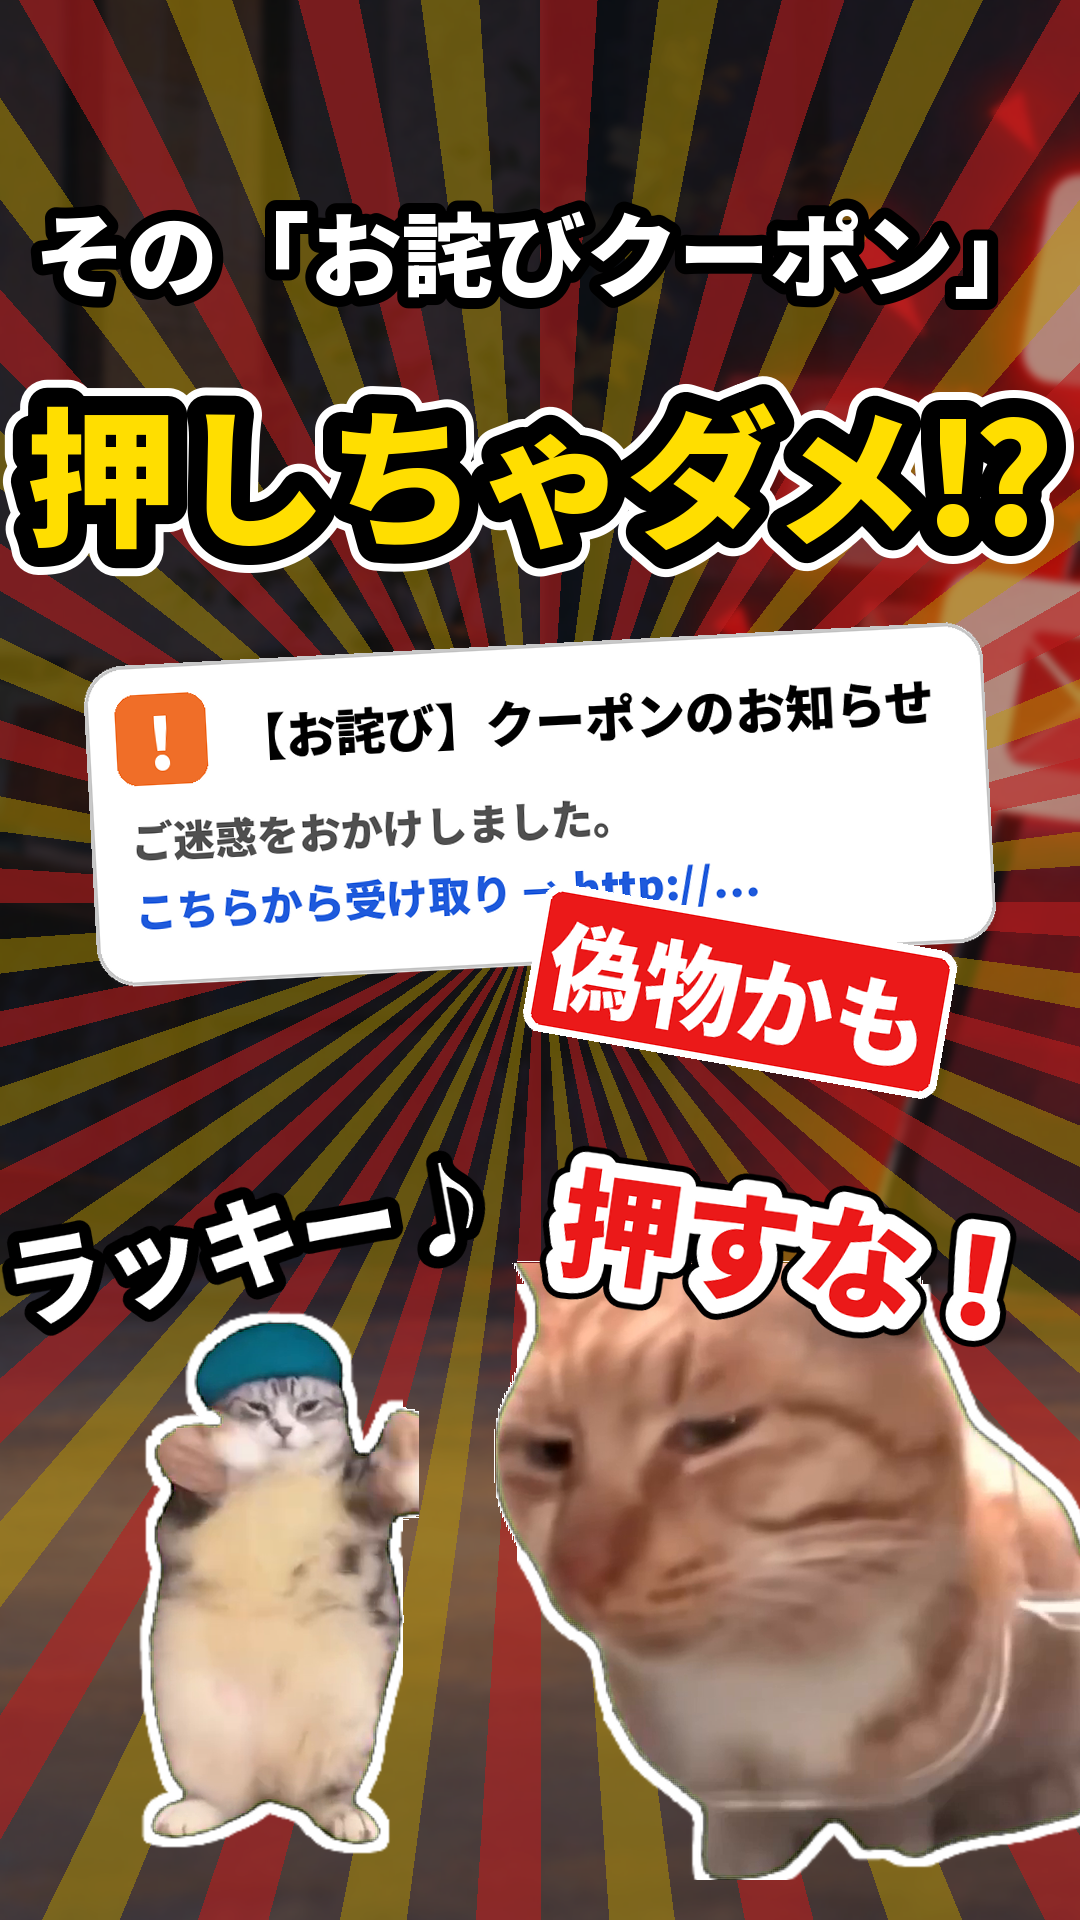
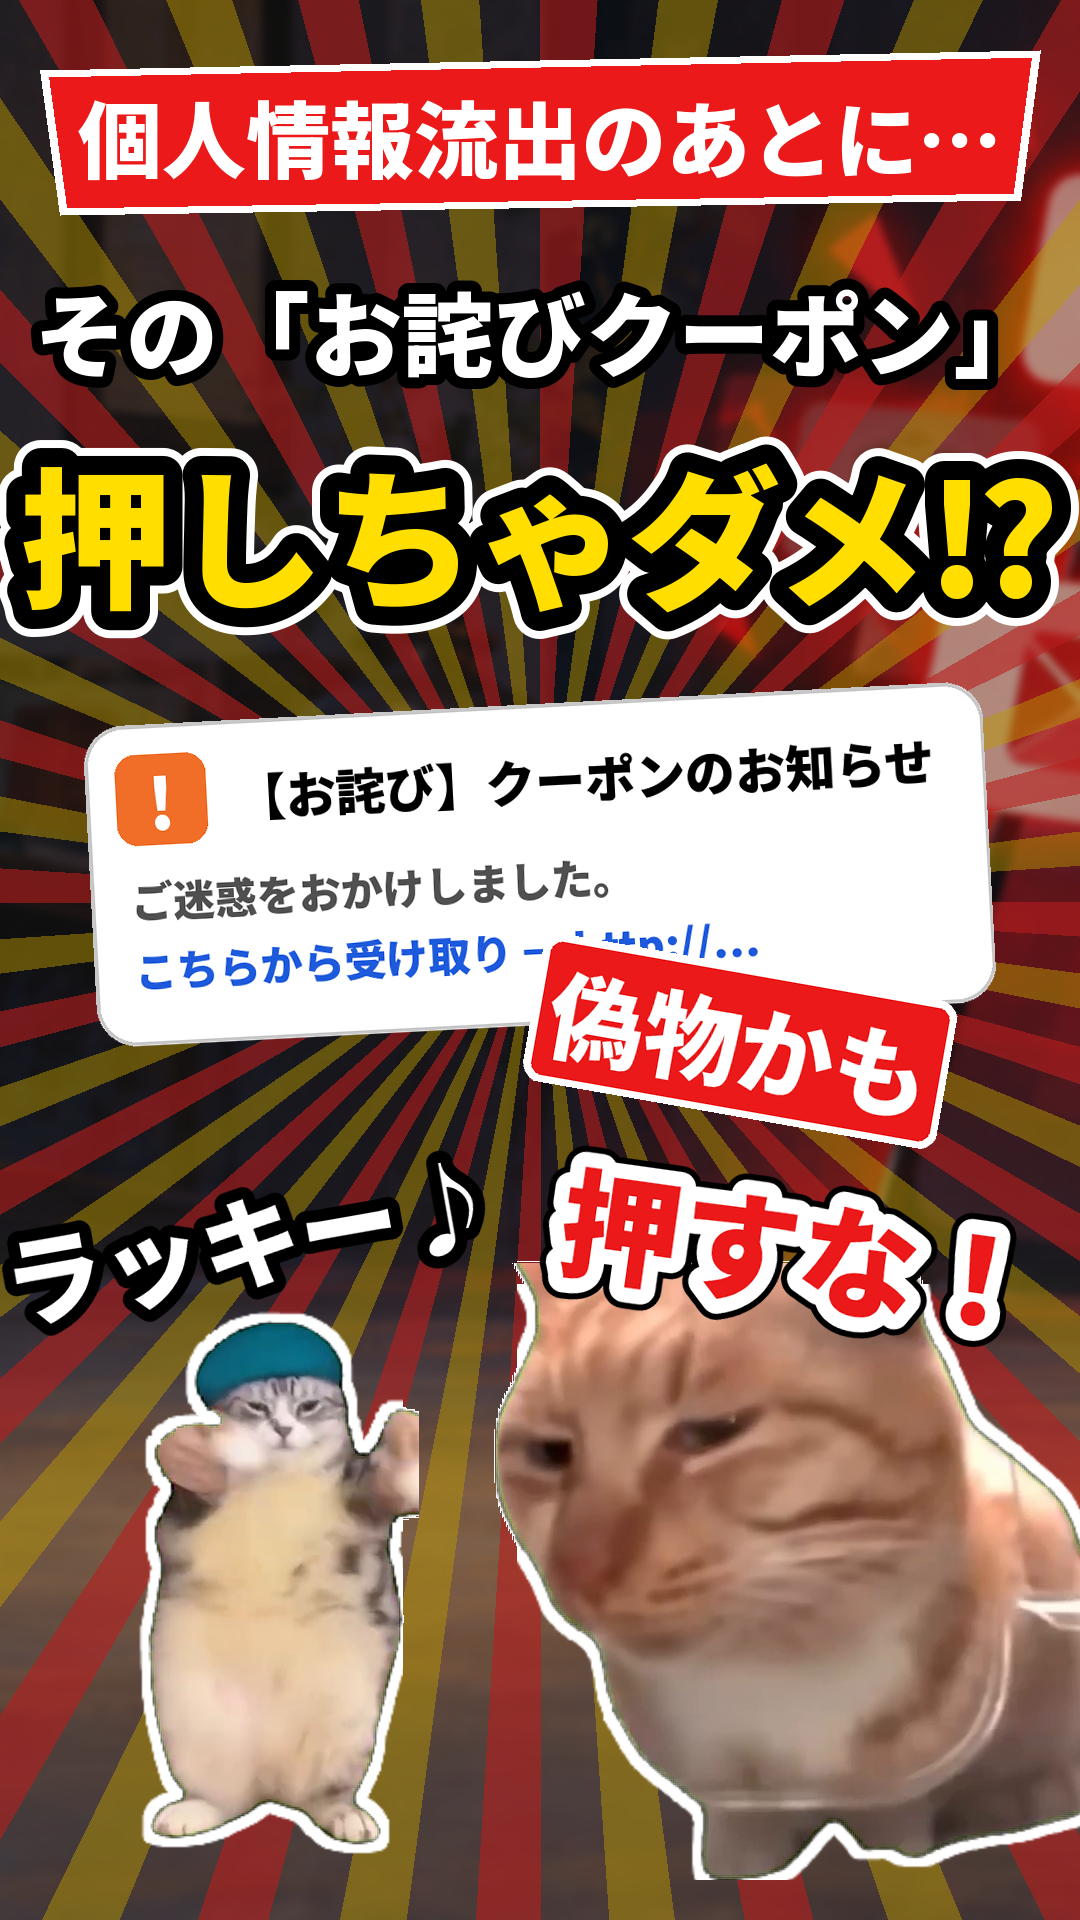
4本目：長尺のサムネ・タイトル・説明文、ショートを45〜58秒に、サムネに話題の帯
Claude-Session: https://claude.ai/code/session_011g9CsrfFD5YswfNSvNDW39

diff --git a/catmeme/short_04_leak.py b/catmeme/short_04_leak.py
@@ -96,6 +96,8 @@ def cuts_a():
               "免許証の情報まで", cap_col=RED, dur=3.2, se="doon_heavy"),
         two("bg20_counter", "glare_disgusted_cat", "eat_pop_cat", "免許証って\n名前・住所・生年月日\n顔写真まで載ってるからな",
             who="R", dur=3.2, se="hyoshigi_02"),
+        one("bg20_counter", "peek_what_happen_cat", "ニュース猫", NEWS, "それ悪用されたら\nどうなるの？", dur=2.4,
+            se="question_hatena_maou"),
         panel(flow("悪用されると…（最悪のケース）", [
             ("なりすまし", "名前を使って\nクレカを作られる", False),
             ("勝手に借金", "知らぬ間に\nキャッシング", False),
@@ -106,6 +108,7 @@ def cuts_a():
             cap_col=RED, dur=2.6, fx=["lines", "shake"], se="game_mgs_alert"),
         one("bg23_hacker_room", "cocky_dj_cat", "ハッカー猫", HACK, "ローンの審査？\nお気の毒さま〜", dur=2.4,
             se="anime_shinchan_taraan"),
+        one("bg20_counter", "confused_i_dont_know_cat", "ニュース猫", NEWS, "じゃあ\nどうすればいいの？", dur=2.2, se="boing_fail"),
         two("bg20_counter", "huh_huh_cat", "think_bike_front_seat_cat", "実際は審査で\n電話や口座の確認もある\n必ず通るわけじゃない",
             who="R", dur=3.2, se="pinpon_notice"),
         panel(items("免許証が漏れたかも…と思ったら", [
@@ -113,6 +116,8 @@ def cuts_a():
             "開示して　身に覚えのない契約をチェック"]),
             "今すぐできる対策", cap_col=YELLOW, dur=4.0, se="pinpoon_correct"),
         two("bg20_counter", "spin_spinning_cat", "eat_pop_cat", "信用情報って\n自分で見られるのか", who="L", dur=2.4, se="pikon"),
+        two("bg20_counter", "spin_spinning_cat", "eat_pop_cat", "開示を申し込めば\n見られるぞ\n身に覚えのない契約がないかチェックな",
+            who="R", dur=3.0, se="idea_newtype_01"),
         one("bg03_blackboard", "wave_waving_cat", "ニュース猫", NEWS, "なぜ漏えいが連発？\n本編で解説！", cap_col=YELLOW,
             h=760, dur=3.0, se="chirin", bgm={"file": COCOA, "gain": -6, "fade": 0.8}),
     ]
@@ -125,12 +130,16 @@ def cuts_b():
             "焼肉きんぐ　約1,078万件", "Gyazo　約2,362万件", "タイムズカー　約660万件", "デジタル庁　約24.6万件"],
             note="件数は各社の発表（漏えいのおそれを含む）"), "漏えいが\n止まらない", dur=3.4, se=["jan", "doon_heavy"],
             bgm={"file": PURPLE, "gain": -4}),
+        one("bg22_yakiniku", "dance_koto_nai_cat", "ニュース猫", NEWS, "多すぎて\nもう何がなんだか", dur=2.4,
+            se="spring_byoin"),
         one("bg26_phone_alert", "taunt_cat_and_scared_dog", "ハッカー猫", HACK, "お詫びの\nクーポンです〜（偽）", dur=2.6,
             se="shine_kira_01"),
         two("bg26_phone_alert", "joy_happy_happy_happy_cat", "glare_disgusted_cat", "え、クーポン？\nラッキー♪", who="L", dur=2.4, until=2.8,
             se="game_mario_1up"),
         two("bg26_phone_alert", "joy_happy_happy_happy_cat", "glare_disgusted_cat", "待て\nそれが一番あやしい", who="R", dur=2.4, until=2.8,
             se="tsukkomi_bishi"),
+        one("bg23_hacker_room", "angry_aiming_cat", "ハッカー猫", HACK, "ポチッと押してくれれば\nこっちのもん", dur=2.6,
+            se="game_zelda_item_get"),
         panel(flow("お詫びクーポンのワナ", [
             ("偽のお詫びが届く", "漏えいの\nニュースに便乗", False),
             ("リンクを押す", "本物そっくりの\n偽サイトへ", False),
@@ -139,12 +148,16 @@ def cuts_b():
             "押すと…", cap_col=RED, dur=4.2, se="buzzer_wrong", bgm={"file": NORA, "gain": -4}),
         one("bg26_phone_alert", "surprise_big_pupils_cat", "ニュース猫", NEWS, "カード番号まで！？", cap_col=RED, dur=2.2,
             fx=["lines", "shake"], se="explosion_chudoon"),
+        two("bg26_phone_alert", "surprise_big_pupils_cat", "eat_pop_cat", "本物のお詫びでも\nメールのリンクじゃなく\n公式アプリで確かめる",
+            who="R", dur=3.2, se="pinpon_notice"),
         two("bg02_room", "peek_what_happen_cat", "eat_pop_cat", "パスワードを使い回してると\nほかのサービスにも\n次々ログインされる",
             who="R", dur=3.4, se="pc_warning"),
         two("bg02_room", "sad_banana_cat_cry", "eat_pop_cat", "……全部\n同じパスワードだわ", who="L", dur=2.6, se="tear_drop"),
         panel(items("今日からできる対策", [
             "「お詫び」のリンクは押さない", "公式アプリ・公式サイトから確認", "パスワードを使い回さない", "二段階認証を入れる"]),
             "これだけは\nやっておこう", cap_col=YELLOW, dur=4.0, se="pinpoon_correct"),
+        two("bg02_room", "sleepy_sleepy_cat", "drive_driving_cat", "持ってるだけで漏れるから\n使ってないアカウントは\n退会しとこう",
+            who="R", dur=3.2, se="page_turn_01"),
         one("bg23_hacker_room", "blank_black_cat_zoning_out", "ハッカー猫", HACK, "二段階認証……\nだと……", dur=2.4,
             se="deflate_hyororo"),
         one("bg03_blackboard", "wave_waving_cat", "ニュース猫", NEWS, "なぜ漏えいが連発？\n本編で解説！", cap_col=YELLOW,

diff --git a/catmeme/make_thumb_short_04.py b/catmeme/make_thumb_short_04.py
@@ -60,6 +60,14 @@ def cats(img, left, right):
     img.alpha_composite(b, (int(810 - b.width / 2), H - b.height - 40))
 
 
+def topic_band(img, text="個人情報流出"):
+    """いちばん上の帯（何の話か一目でわかるように）。"""
+    d = ImageDraw.Draw(img)
+    d.polygon([(40, 70), (W - 40, 50), (W - 60, 200), (60, 215)], fill=RED)
+    d.polygon([(40, 70), (W - 40, 50), (W - 60, 200), (60, 215)], outline=WHITE, width=8)
+    fit_text(d, (W / 2, 135), text, 940, 120, WHITE, RED, sw_ratio=0.0)
+
+
 def save(img, name):
     out = os.path.join(HERE, "thumbs", name + ".png")
     os.makedirs(os.path.dirname(out), exist_ok=True)
@@ -70,8 +78,9 @@ def save(img, name):
 def license_thumb():
     img = base("bg23_hacker_room", ((255, 40, 40, 150), (255, 210, 0, 120)))
     d = ImageDraw.Draw(img)
-    fit_text(d, (W / 2, 250), "レンタカー予約で", 1030, 150, WHITE, BLACK, double=None)
-    fit_text(d, (W / 2, 470), "免許証まで⁉", 1040, 210, YELLOW, BLACK, double=WHITE)
+    topic_band(img, "個人情報流出")
+    fit_text(d, (W / 2, 330), "レンタカー予約で", 1030, 140, WHITE, BLACK, double=None)
+    fit_text(d, (W / 2, 530), "免許証まで⁉", 1040, 190, YELLOW, BLACK, double=WHITE)
     # 真ん中：免許証ふうのカード（中身は伏せ字）
     pw = Image.new("RGBA", (900, 360), (0, 0, 0, 0))
     pd = ImageDraw.Draw(pw)
@@ -85,13 +94,13 @@ def license_thumb():
         pd.text((290, y), lab, font=P.font("black", 44), fill=BLACK, anchor="lm")
         pd.rectangle((500, y - 20, 850, y + 20), fill=BLACK)
     pw = pw.rotate(4, expand=True, resample=Image.BICUBIC)
-    img.alpha_composite(pw, (int(W / 2 - pw.width / 2), 610))
+    img.alpha_composite(pw, (int(W / 2 - pw.width / 2), 670))
     stamp = Image.new("RGBA", (560, 150), (0, 0, 0, 0))
     sd = ImageDraw.Draw(stamp)
     sd.rounded_rectangle((0, 0, 560, 150), 20, fill=RED, outline=WHITE, width=8)
     sd.text((280, 75), "約160万件", font=P.font("black", 100), fill=WHITE, anchor="mm")
     stamp = stamp.rotate(-8, expand=True, resample=Image.BICUBIC)
-    img.alpha_composite(stamp, (int(W / 2 - stamp.width / 2 - 120), 950))
+    img.alpha_composite(stamp, (int(W / 2 - stamp.width / 2 + 190), 850))
     cats(img, ("huh_huh_cat", 1.0, False), ("surprise_big_pupils_cat", 0.6, True))
     words(img, [("は？", 230, 1240, 130, WHITE, 10), ("ブラックリスト\n入り！？", 790, 1250, 78, RED, -8)])
     save(img, "short_04a_license")
@@ -100,8 +109,9 @@ def license_thumb():
 def coupon_thumb():
     img = base("bg26_phone_alert", ((255, 40, 40, 150), (255, 210, 0, 120)))
     d = ImageDraw.Draw(img)
-    fit_text(d, (W / 2, 250), "その「お詫びクーポン」", 1030, 120, WHITE, BLACK, double=None)
-    fit_text(d, (W / 2, 470), "押しちゃダメ⁉", 1040, 190, YELLOW, BLACK, double=WHITE)
+    topic_band(img, "個人情報流出のあとに…")
+    fit_text(d, (W / 2, 330), "その「お詫びクーポン」", 1030, 120, WHITE, BLACK, double=None)
+    fit_text(d, (W / 2, 530), "押しちゃダメ⁉", 1040, 180, YELLOW, BLACK, double=WHITE)
     # 真ん中：スマホの通知ふう（実在の会社名は出さない）
     pw = Image.new("RGBA", (900, 330), (0, 0, 0, 0))
     pd = ImageDraw.Draw(pw)
@@ -112,13 +122,13 @@ def coupon_thumb():
     pd.text((40, 175), "ご迷惑をおかけしました。", font=P.font("black", 42), fill=(80, 80, 80), anchor="lm")
     pd.text((40, 245), "こちらから受け取り → http://…", font=P.font("black", 42), fill=(30, 90, 220), anchor="lm")
     pw = pw.rotate(3, expand=True, resample=Image.BICUBIC)
-    img.alpha_composite(pw, (int(W / 2 - pw.width / 2), 620))
+    img.alpha_composite(pw, (int(W / 2 - pw.width / 2), 680))
     stamp = Image.new("RGBA", (420, 150), (0, 0, 0, 0))
     sd = ImageDraw.Draw(stamp)
     sd.rounded_rectangle((0, 0, 420, 150), 20, fill=RED, outline=WHITE, width=8)
     sd.text((210, 75), "偽物かも", font=P.font("black", 96), fill=WHITE, anchor="mm")
     stamp = stamp.rotate(-10, expand=True, resample=Image.BICUBIC)
-    img.alpha_composite(stamp, (int(W / 2 - stamp.width / 2 + 200), 880))
+    img.alpha_composite(stamp, (int(W / 2 - stamp.width / 2 + 200), 930))
     cats(img, ("happy_girlfriend_dance_cat", 0.5, False), ("glare_disgusted_cat", 1.0, True))
     words(img, [("ラッキー♪", 250, 1240, 100, WHITE, 10), ("押すな！", 800, 1250, 120, RED, -8)])
     save(img, "short_04b_coupon")

diff --git a/catmeme/make_thumb_04.py b/catmeme/make_thumb_04.py
@@ -1,0 +1,29 @@
+"""04 個人情報流出のサムネ（横 1280x720）。python3 catmeme/make_thumb_04.py → thumbs/04_leak.png ほか
+
+作りは make_thumb_03.py と同じ（上の赤帯／大きな黄色い文字／赤い副題／札／左右の猫）。
+"""
+import os
+
+from make_thumb_03 import make
+
+HERE = os.path.dirname(os.path.abspath(__file__))
+OUT = os.path.join(HERE, "thumbs", "04_leak.png")
+NEWS, SAGE, HACK = (215, 35, 35), (40, 90, 200), (30, 30, 30)
+WHITE, YELLOW = (255, 255, 255), (255, 222, 0)
+COMMON = dict(bg_dir="04_leak", bg="bg24_server_room", ray_cols=((255, 40, 40), (255, 210, 0)))
+VARIANTS = {
+    # 正式版：猫ミーム感を強めた版（脇役の猫とひとことを散らす）
+    "": dict(left=("surprise_big_pupils_cat", 0.6, False, "ニュース猫", NEWS), right=("angry_aiming_cat", 1.0, False, "ハッカー猫", HACK),
+             top="9月末から　漏えいの発表がほぼ毎日", big="個人情報", sub="盗まれすぎ問題!?", badge="", cat_h=480, tags=False,
+             extras=(("sad_banana_cat_cry", 1.0, False, 450, 270, 735), ("glare_disgusted_cat", 1.0, True, 830, 270, 735)),
+             words=(("1,000万件!?", 200, 640, 58, WHITE, 10), ("ﾌｯﾌｯﾌ…", 1130, 345, 64, (190, 190, 190), -10),
+                    ("ﾋｴｯ", 450, 480, 56, YELLOW, 8), ("お詫びクーポン?", 830, 480, 44, YELLOW, -8))),
+    # 別案：件数を札にしたシンプル版
+    "_b": dict(left=("weird_meowing_cat", 1.0, False, "ニュース猫", NEWS), right=("eat_pop_cat", 1.0, False, "博識な猫", SAGE),
+               top="焼肉きんぐ・タイムズカー・デジタル庁…", big="個人情報", sub="盗まれすぎ問題!?",
+               badge="あなたの情報も漏れてるかも？"),
+}
+
+if __name__ == "__main__":
+    for k, v in VARIANTS.items():
+        make(OUT.replace(".png", k + ".png"), **{**COMMON, **v})

diff --git a/catmeme/short_03_kodomo_nisa.py b/catmeme/short_03_kodomo_nisa.py
@@ -20,6 +20,7 @@ import render as R
 R.NYAS_STYLE = True
 R.FG_DUCK = -9
 SW, SH = 1080, 1920
+SHORT_MIN, SHORT_MAX = 45.0, 58.0   # ショートの長さ（秒）
 HERE = os.path.dirname(os.path.abspath(__file__))
 BGS = [os.path.join(HERE, "backgrounds", d) for d in ("03_kodomo_nisa", "02_october", "01_todai")]
 BGM = os.path.join(HERE, "bgm")
@@ -200,6 +201,8 @@ def run(cs, title_img, out_path, prev):
     durs = [R.cut_dur(c) for c in cs]
     starts = list(np.cumsum([0] + durs[:-1]))
     total = sum(durs)
+    if not SHORT_MIN <= total <= SHORT_MAX:   # ショートは45〜58秒（チャンネルのルール）
+        raise SystemExit(f"ショートの長さ {total:.1f}秒 が {SHORT_MIN}〜{SHORT_MAX}秒の範囲外です。カットを足すか削ってください")
     os.makedirs(os.path.dirname(OUT), exist_ok=True)
     wav = OUT + ".audio.f32"
     R.build_audio(cs, starts, durs, total).tofile(wav)

diff --git a/catmeme/make_thumb_03.py b/catmeme/make_thumb_03.py
@@ -33,8 +33,8 @@ def tag(img, text, color, cx, y, size=40):
 
 
 def make(out, left, right, top, big, sub, badge="年60万円・最大600万円", ray_cols=((255, 60, 60), (255, 220, 0)), bg="bg19_kids_room",
-         cat_h=470, extras=(), words=(), tags=True):
-    path = os.path.join(HERE, "backgrounds", "03_kodomo_nisa", bg + ".png")
+         cat_h=470, extras=(), words=(), tags=True, bg_dir="03_kodomo_nisa"):
+    path = os.path.join(HERE, "backgrounds", bg_dir, bg + ".png")
     img = Image.open(path).convert("RGB").resize((W, H)).filter(ImageFilter.GaussianBlur(3)).convert("RGBA")
     # 集中線
     rays = Image.new("RGBA", (W, H), (0, 0, 0, 0))

diff --git a/catmeme/scripts/04_leak_youtube.md b/catmeme/scripts/04_leak_youtube.md
@@ -1,0 +1,71 @@
+# 04 個人情報、盗まれすぎ問題：YouTube のタイトル・説明文・タグ
+
+## タイトル（おすすめ順）
+1. 【猫ミーム】個人情報、盗まれすぎ問題!? 焼肉きんぐ・タイムズカー・デジタル庁…なぜ漏えいが連発？ #猫ミーム
+2. 【猫ミーム】9月末から漏えい発表がほぼ毎日…原因・AI攻撃・免許証が漏れると最悪どうなる？ #猫ミーム
+3. 【猫ミーム】その「お詫びクーポン」押す前に！個人情報流出の連発と今日からできる対策 #猫ミーム
+
+## サムネ
+- 正式版: thumbs/04_leak.png（猫ミーム多め「個人情報 盗まれすぎ問題!?」）
+- 別案: thumbs/04_leak_b.png（「焼肉きんぐ・タイムズカー・デジタル庁…」＋「あなたの情報も漏れてるかも？」）
+
+## 説明文
+
+```
+2026年9月末から、焼肉きんぐ・タイムズカー・Gyazo・デジタル庁など、個人情報の「漏えいのおそれ」の発表がほぼ毎日続いています。
+なんでこんなに盗まれるの？ なんで今連発しているの？ 盗まれると何が起きる？
+ニュース猫と博識な猫（と、ハッカー猫）が、原因・AIを使った攻撃・免許証が漏れたときの最悪のケース・今日からできる対策まで、ゆるっと解説します。
+
+あなたは何個のサービスに登録してる？ コメントで教えて！
+
+▼ 目次
+0:00 何が起きている？
+0:28 9月末から　ほぼ毎日…
+1:20 なんでこんなに盗まれるの？
+2:16 なんで今　こんなに連発？
+3:13 ネットの声（根拠は未確認）
+3:29 盗まれると何が起きる？
+3:47 特にこわいのが免許証
+4:51 じゃあ、どうすればいい？
+5:14 ネットの声・まとめ
+
+▼ ご注意
+・件数は各社の発表どおりです（「漏えいのおそれ」を含みます）。同じ人が何社にも登録しているため、件数は合計していません
+・被害を受けた会社を責める動画ではありません
+・ネットの声は、よく見かける意見を要約したもので、根拠は確認されていません
+・実在の人物の言葉は、報道をもとに意味を変えずにまとめたように配慮しております
+・猫はすべて演出です。ハッカー猫は架空の悪役です
+・内容は2026年10月6日時点の報道・公式発表にもとづいています
+・背景イラストの一部はAIで生成しています
+
+▼ BGM
+Purple / RYU ITO（RYU ITO MUSIC）
+野良猫は宇宙を目指した / しゃろう（DOVA-SYNDROME）
+星降る夜のホットココア / ハヤシユウ（DOVA-SYNDROME）
+未来を創る君たちへ / 〔作曲者〕（DOVA-SYNDROME）
+神の怒り / 〔作曲者〕（〔配布元〕）
+
+▼ 効果音
+効果音ラボ、魔王魂 ほか
+
+#猫ミーム #個人情報 #情報漏えい
+```
+
+## タグ（YouTube の「タグ」欄）
+猫ミーム, 個人情報, 情報漏えい
+
+## 設定（YouTube Studio）
+- 公開範囲：公開（予約投稿にする場合は平日19〜21時ごろ）
+- 子ども向け：「いいえ、子ども向けではありません」
+- 年齢制限：なし
+- 有料プロモーション：なし
+- 改変されたコンテンツ（AI）：「いいえ」で可（背景のAI生成は説明文に記載）
+- カテゴリ：ニュースと政治（または教育）
+- コメント：オン（「コメントで教えて」と呼びかけているため）
+- 終了画面：ショート（免許証・お詫びクーポン）か前の動画と、チャンネル登録ボタン
+- 再生リスト：「猫ミームでニュース解説」
+
+## 投稿前に埋めること
+- BGM「未来を創る君たちへ」の作曲者名
+- BGM「神の怒り」の作曲者名と配布元
+- 目次の時間は作り直しのたびに少しずれるので、公開前に動画を見て確認

diff --git a/catmeme/scripts/short_04_leak_youtube.md b/catmeme/scripts/short_04_leak_youtube.md
@@ -3,7 +3,7 @@
 ## A：免許証が漏れると…（short_04a_license）
 
 ### タイトル（おすすめ順・どれも40字以内）
-1. レンタカー予約で免許証まで⁉ 漏れると最悪こうなる【猫ミーム】
+1. 【個人情報流出】レンタカー予約で免許証まで⁉ 最悪こうなる【猫ミーム】
 2. 免許証の情報が漏れたら？ なりすまし→借金→ローン不可【猫ミーム】
 3. 約160万件の免許証情報が漏えいのおそれ…今できる対策【猫ミーム】
 
@@ -34,7 +34,7 @@ thumbs/short_04a_license.png
 ## B：お詫びクーポンのワナ（short_04b_coupon）
 
 ### タイトル（おすすめ順・どれも40字以内）
-1. その「お詫びクーポン」押しちゃダメ⁉ 漏えい後の偽メールに注意【猫ミーム】
+1. 【個人情報流出】その「お詫びクーポン」押しちゃダメ⁉【猫ミーム】
 2. 漏えいの後に届く「お詫び」が一番あやしい理由【猫ミーム】
 3. お詫びクーポンのリンクを押すと…パスワードもカードも【猫ミーム】
 

diff --git a/catmeme/README.md b/catmeme/README.md
@@ -9,6 +9,8 @@
 
 ## 素材のルール
 - 猫ミーム素材（`assets/`）は、動画をまたいでも、1本の中でも使い回してよい（ショートの「使い回し禁止」はここでは適用しない）
+- ショートは **45秒以上58秒以内**（`short_03_kodomo_nisa.py` の `run()` が範囲外なら止める）
+- ショートのサムネは、何のニュースか一目でわかる帯（例：「個人情報流出」）を一番上に入れる
 - ただし同じ素材ばかりにならないようにする
   - 1本の中で同じ素材を使うのは **3回まで**
   - 同じ素材を **続けて使わない**（間に別の素材を2つ以上はさむ）
